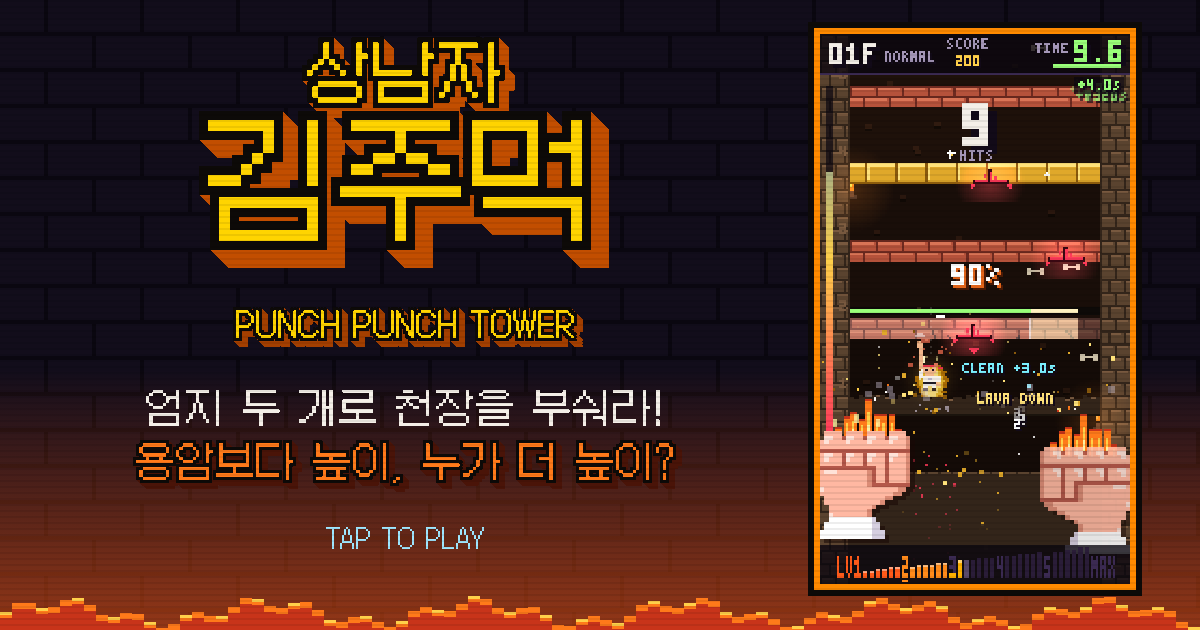
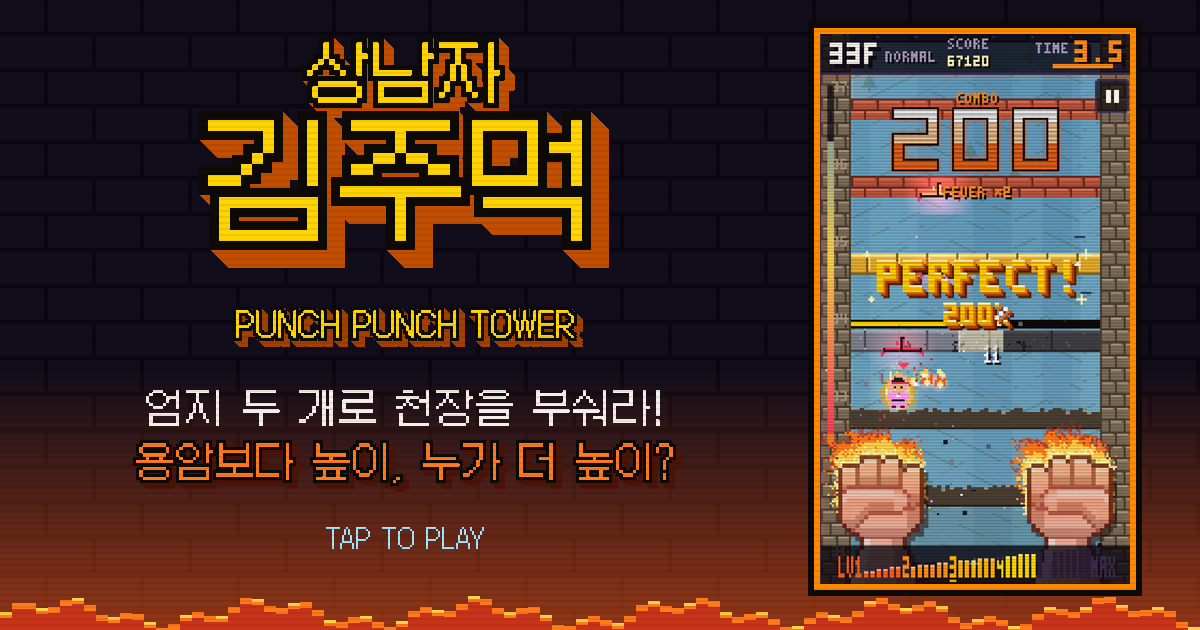
도전장 링크, 도트 PUSH·VENTO 버튼, SHOW TIME 위치, 카톡 썸네일, 방향키·회전 버그 수정 (Cache v21)
- 공유 링크에 기록(층·난이도·이름)을 실어 친구가 '이 기록을 넘어라'로 도전 (시작 배너, VS 점선, 결과 표시)
- 첫 화면 PUSH! PUSH!와 버튼 위 VENTO를 도트 글씨로 (VENTO는 버튼 윗면에 누운 두꺼운 블록 글자)
- SHOW TIME 글씨를 'N층 돌파!' 바로 위에 같은 글씨로
- COMBO·FEVER x2 글씨 2배, 콤보 숫자와 간격
- og.png 오른쪽 화면을 지금 인게임으로, og:image 주소에 ?v=21
- 게임 중 ← →가 난이도를 바꾸던 버그 수정
- 세로 회전 안내 제거 (키보드가 올라오면 잘못 뜨던 문제)

Claude-Session: https://claude.ai/code/session_01986obTgeCbwcVYKsbXKzs8

Changed region(s): [[0.6783, 0.0603, 0.9558, 0.9349]]

diff --git a/index.html b/index.html
@@ -5,13 +5,13 @@
 <meta property="og:title" content="상남자 김주먹: 펀치펀치 타워">
 <meta property="og:description" content="엄지 두 개로 천장을 부숴라! 용암보다 높이, 누가 더 높이? 설치 없이 바로 하는 도트 연타 게임">
 <meta property="og:url" content="https://vento-punch-tower.vercel.app/">
-<meta property="og:image" content="https://vento-punch-tower.vercel.app/og.png">
+<meta property="og:image" content="https://vento-punch-tower.vercel.app/og.png?v=21">
 <meta property="og:image:width" content="1200">
 <meta property="og:image:height" content="630">
 <meta property="og:image:alt" content="상남자 김주먹: 펀치펀치 타워 로고와 게임 화면">
 <meta property="og:locale" content="ko_KR">
 <meta name="twitter:card" content="summary_large_image">
-<meta name="twitter:image" content="https://vento-punch-tower.vercel.app/og.png">
+<meta name="twitter:image" content="https://vento-punch-tower.vercel.app/og.png?v=21">
 <meta name="claude:viewport-fit-sides" content="cover">
 <link rel="preconnect" href="https://fonts.googleapis.com">
 <link rel="stylesheet" href="https://fonts.googleapis.com/css2?family=Press+Start+2P&display=swap">
@@ -143,6 +143,13 @@ body{background:var(--void);color:var(--gi);margin:0;overflow:hidden;
 .darr:disabled{color:var(--edge);cursor:default;box-shadow:0 -3px 0 0 #2a2034,0 3px 0 0 #2a2034,-3px 0 0 0 #2a2034,3px 0 0 0 #2a2034}
 .darr:active:not(:disabled){transform:translateY(2px)}
 .menu .stat.best{text-align:center;margin-top:-8px;font-size:10px}
+.vsban{width:calc(100% - 20px);max-width:320px;margin:10px 0 2px;padding:8px 10px;background:var(--ink);text-align:center;
+  box-shadow:0 -3px 0 0 var(--gold),0 3px 0 0 var(--gold),-3px 0 0 0 var(--gold),3px 0 0 0 var(--gold),6px 6px 0 0 var(--amber)}
+.vsban i{display:block;font-style:normal;font-family:var(--f-pixel);font-size:10px;letter-spacing:.1em;color:var(--lava-hi);margin-bottom:5px}
+.vsban p{margin:0;font-size:13px;line-height:1.5;color:var(--gi);word-break:keep-all}
+.vsban b{color:var(--gold);font-weight:400}.vsban b.fl{font-family:var(--f-pixel);font-size:12px}
+.ezscore .flr i .vsres{display:block;margin-top:7px;font-family:var(--f-body);font-size:12px;letter-spacing:0;color:var(--gi);white-space:nowrap}
+.vsres u{text-decoration:none;color:var(--lava-hi)}.ezscore .flr i .vsres.ok{color:var(--gold);animation:blinky 1s steps(2) infinite}
 .icons{display:grid;grid-template-columns:repeat(3,1fr);gap:12px}
 .ico{display:grid;justify-items:center;gap:6px;padding:10px 0 8px;border:0;border-radius:0;cursor:pointer;background:var(--ink);color:var(--gi);font-family:var(--f-display);font-size:13px;
   box-shadow:0 -3px 0 0 var(--gi),0 3px 0 0 var(--gi),-3px 0 0 0 var(--gi),3px 0 0 0 var(--gi),inset 0 -3px 0 0 #2a2034}
@@ -327,7 +334,7 @@ body{background:var(--void);color:var(--gi);margin:0;overflow:hidden;
 .press{font-family:var(--f-pixel);font-size:10px;letter-spacing:.14em;color:var(--gi)}
 .arcade{margin:auto;display:grid;justify-items:center;gap:30px}
 .pushcue{display:grid;justify-items:center;gap:8px}
-.pushtxt{font-family:var(--f-pixel);font-size:13px;letter-spacing:.08em;color:var(--gold);text-shadow:2px 2px 0 #a33f00;animation:pushBlink .5s steps(2) infinite}
+.pushtxt{display:block;width:min(84cqw,300px);height:auto;image-rendering:pixelated;image-rendering:crisp-edges} /* pixel-art PUSH! PUSH!, blinks by swapping palettes */
 @keyframes pushBlink{50%{color:var(--amber);text-shadow:2px 2px 0 #6e0a0a}}
 /* chunky pixel down-arrow that keeps jabbing at the button */
 .pusharrow{position:relative;width:35px;height:35px;margin:4px 0 2px;animation:pushJab .5s steps(2) infinite}
@@ -357,7 +364,7 @@ body{background:var(--void);color:var(--gi);margin:0;overflow:hidden;
 .studio .w2{animation-delay:.16s}.splash .w3{animation-delay:.5s}
 .studio.lit{color:#fff;text-shadow:3px 3px 0 #c8341a,6px 6px 0 #4a1408,0 0 14px rgba(255,208,74,.9)}
 @keyframes popin{from{opacity:0;transform:scale(1.7)}to{opacity:1;transform:none}}
-@media (prefers-reduced-motion:reduce){.board li.me,.blinky,.studio span,.splash .w3,.namebox.bad{animation:none}}
+@media (prefers-reduced-motion:reduce){.board li.me,.blinky,.vsres.ok,.studio span,.splash .w3,.namebox.bad{animation:none}}
 .mash{position:absolute;left:0;right:0;bottom:41%;text-align:center;pointer-events:none;z-index:2;
   font-family:var(--f-display);font-size:clamp(34px,13cqw,52px);color:var(--gold);
   text-shadow:3px 0 0 var(--ink),-3px 0 0 var(--ink),0 3px 0 var(--ink),0 -3px 0 var(--ink),3px 3px 0 var(--ink),-3px -3px 0 var(--ink),6px 6px 0 #c24e00;
@@ -372,9 +379,19 @@ body{background:var(--void);color:var(--gi);margin:0;overflow:hidden;
 .finale i{font-style:normal;font-family:var(--f-display);font-size:18px;color:#fff;background:var(--weak);padding:4px 10px 3px;box-shadow:3px 3px 0 var(--ink)}
 .finale i:empty{display:none}
 .finale.big b{font-size:clamp(40px,15cqw,60px)}
+/* SHOW TIME: the 'N층 돌파!' lettering, a size down, twinkling right on top of the floor count while SHOW TIME runs */
+.finale .fst{display:none;position:relative;font-style:normal;font-family:var(--f-display);font-size:clamp(24px,8.5cqw,34px);line-height:1;letter-spacing:.04em;color:var(--gold);
+  text-shadow:2px 0 0 var(--ink),-2px 0 0 var(--ink),0 2px 0 var(--ink),0 -2px 0 var(--ink),2px 2px 0 var(--ink),-2px -2px 0 var(--ink),4px 4px 0 #c24e00;
+  animation:finHue .3s steps(3) infinite,fstTw .6s steps(2) infinite}
+.finale.low .fst{display:block}
+.finale .fst::before,.finale .fst::after{content:"";position:absolute;width:3px;height:3px;background:#fff;
+  box-shadow:0 -6px #fff,0 -3px #fff6b0,0 3px #fff6b0,0 6px #fff,-6px 0 #fff,-3px 0 #fff6b0,3px 0 #fff6b0,6px 0 #fff;animation:fstStar .6s steps(2) infinite}
+.finale .fst::before{left:-14px;top:-4px}.finale .fst::after{right:-12px;bottom:-2px;animation-delay:-.3s}
+@keyframes fstTw{50%{filter:brightness(1.6)}}
+@keyframes fstStar{50%{opacity:0;transform:scale(.4)}}
 @keyframes finIn{0%{transform:scale(2.2);opacity:0}8%{transform:scale(.9);opacity:1}14%{transform:scale(1.05)}20%{transform:scale(1)}85%{opacity:1}100%{opacity:0;transform:translateY(-14px)}}
 @keyframes finHue{0%{color:var(--gold)}33%{color:#fff}66%{color:#ff8a00}}
-@media (prefers-reduced-motion:reduce){.finale,.finale b{animation:none}}
+@media (prefers-reduced-motion:reduce){.finale,.finale b,.finale .fst,.finale .fst::before,.finale .fst::after{animation:none}}
 /* SHOW TIME: the finale line "N층 돌파!" stays up the whole time (live) and its number climbs with every floor smashed */
 .finale.low{top:40%}
 .finale.live{animation:none}
@@ -423,14 +440,7 @@ body{background:var(--void);color:var(--gi);margin:0;overflow:hidden;
 .pmenu{width:calc(100% - 16px);max-width:260px;display:grid;grid-template-columns:minmax(0,1fr);gap:14px}
 .cutin{position:absolute;inset:0;display:flex;align-items:center;pointer-events:none;z-index:2;overflow:hidden}
 .cutin[hidden]{display:none}
-/* phone turned sideways: the game is portrait-only, so cover it and ask to turn back (game pauses underneath) */
-.rotate{position:fixed;inset:0;z-index:50;display:none;flex-direction:column;align-items:center;justify-content:center;gap:14px;background:var(--void);text-align:center;padding:16px}
-.rotate b{font-family:var(--f-display);font-weight:400;font-size:22px;color:var(--gold)}
-.rotate span{font-family:var(--f-display);font-size:13px;color:var(--muted)}
-.rotate i{width:34px;height:56px;box-shadow:0 0 0 4px var(--gold);position:relative;animation:turnback 1.6s steps(4) infinite}
-.rotate i::after{content:"";position:absolute;left:12px;bottom:5px;width:10px;height:4px;background:var(--gold)}
-@keyframes turnback{0%,30%{transform:rotate(-90deg)}70%,100%{transform:rotate(0)}}
-@media (orientation:landscape) and (max-height:540px) and (pointer:coarse){.rotate{display:flex}}
+/* portrait only: the phone is asked to stay upright (manifest + screen.orientation.lock); no sideways warning, no pause */
 .cutin .band{width:100%;padding:12px 0 8px;text-align:center;
   background:linear-gradient(90deg,#c8341a,#ff7a1a 35%,#ffd04a 55%,#ff7a1a 75%,#c8341a);
   box-shadow:0 6px 0 #4a1408,0 -6px 0 #4a1408;transform:skewY(-8deg);animation:cut .5s steps(7) forwards}
@@ -448,7 +458,7 @@ body{background:var(--void);color:var(--gi);margin:0;overflow:hidden;
     <canvas id="c" width="144" height="256" aria-label="상남자 김주먹 게임 화면"></canvas>
     <button id="pausebtn" class="pausebtn" type="button" aria-label="일시정지" hidden></button>
     <div id="mash" class="mash" hidden>갈겨!!<small></small></div>
-    <div id="finale" class="finale" hidden><b></b><i></i></div>
+    <div id="finale" class="finale" hidden><em class="fst" aria-hidden="true">SHOW TIME</em><b></b><i></i></div>
     <div id="newsk" class="newsk" hidden><em>NEW!</em><b></b><i></i><canvas class="demo" width="120" height="64" hidden aria-hidden="true"></canvas><small>화면을 탭하면 계속</small></div>
     <div id="coach" class="newsk coach" hidden><em>HOW TO</em><b>L R 번갈아 탁탁!</b><i>두 주먹을 누르면 펀치!<br>윗층을 깨고 올라가요</i></div>
     <div id="hintbar" class="hintbar" hidden></div>
@@ -456,7 +466,7 @@ body{background:var(--void);color:var(--gi);margin:0;overflow:hidden;
     <div id="ov" class="ov"></div>
   </div>
 </div>
-<div id="rotate" class="rotate" aria-live="polite"><i aria-hidden="true"></i><b>폰을 세로로 돌려 주세요</b><span>세로 화면 전용 게임이에요</span></div>
+
 
 <script>
 (()=>{
@@ -859,6 +869,7 @@ const HOLD_T=.16,CHARGE_T=.9,MOVE_SPD=42;
 let ghosts=[],dashCD=0,dashT=0;
 let dashFar=false; /* the try-out has just moved on to the dash: put the next weak point on the far side */
 let shareSnap=null,shareBlob=null,shareText=''; // result share: last game frame, the ready-made card image and its message
+let vs=null,vsBeat=false,vsWon=false; /* challenge link (?f=floor&d=diff&by=name): the friend's record to beat, passed this run, passed at all this visit */
 // controls: tap the left/right half to punch with that fist, hold to walk (one scheme only; the old stick+buttons mode is gone)
 // TILT: lean the phone left/right and the boxer walks that way (on top of the thumb controls).
 // iOS asks permission once (must come from a tap); the neutral angle is taken when each game starts.
@@ -1056,7 +1067,7 @@ function newGame(){
   pl={level:0,reach:0,feet:0,from:0,to:0,jt:-1,jd:.15,punchT:0,side:0,sink:0,x:W/2,tx:W/2,weakT:0};
   started=false;lavaY=70;combo=0;maxCombo=0;lastTap=-9;lastSide=-1;fever=0;camY=-190;shake=0;hitstop=0;hsLag=0;
   parts=[];pops=[];rings=[];tStart=0;tNow=0;warnT=0;endT=0;tapFX=[0,0];impact=0;zoom=0;weakCount=0;weakStreak=0;
-  altStreak=0;superReady=false;kingLevel=0;maxHits=0;orbs=[];sup=null;hint=null;sameSide=0;offHits=0;superCount=0;flashO=0;holds.clear();bothT=0;comboFX={dx:12,at:-9};hum(-1);ghosts=[];dashCD=0;dashT=0;kingSlowT=0;timeScale=1;timeLeft=TIME_START;hudSc=0;hudScT=0;judge=null;jCount=[0,0,0,0];kingT=0;showIntro=0;confs=[];crowdK=0;tGains=[];gainSum=0;gainT=0;chill=0;timeUp=false;lavaHold=0;burns=0;burnT=0;cloth=[];timeFlash=0;timeBeep=0;lastZone=null;
+  altStreak=0;superReady=false;kingLevel=0;maxHits=0;orbs=[];sup=null;hint=null;sameSide=0;offHits=0;superCount=0;flashO=0;holds.clear();bothT=0;comboFX={dx:12,at:-9};hum(-1);ghosts=[];dashCD=0;dashT=0;kingSlowT=0;timeScale=1;timeLeft=TIME_START;hudSc=0;vsBeat=false;hudScT=0;judge=null;jCount=[0,0,0,0];kingT=0;showIntro=0;confs=[];crowdK=0;tGains=[];gainSum=0;gainT=0;chill=0;timeUp=false;lavaHold=0;burns=0;burnT=0;cloth=[];timeFlash=0;timeBeep=0;lastZone=null;
 }
 newGame();
 
@@ -1498,6 +1509,7 @@ function update(dt){
   if(mode==='pause')return; // frozen; render keeps drawing the paused frame
   if(newCard){newCard.t+=dt;if(started)tStart+=dt;return;} /* stays until a tap (accepted after NEW_SKIP) */ /* NEW! card: the world holds still */
   const real=dt;
+  if(vsOn()&&!vsBeat&&pl.level>vs.floor&&(mode==='play'||mode==='super')){vsBeat=vsWon=true;pop(W/2,pl.feet-56,'RECORD BEAT!','#ffd400',1,true);sfx.coin();vibe([40,30,90]);} /* passed the friend's floor */
   // charge: world barely slows; once it's full, time slams to a crawl for the 'kingSlow' beat, then the punch fires
   const tsTarget=kingSlowT>0?.07:(bothT>0&&mode==='play')?.85:1;
   timeScale+=(tsTarget-timeScale)*Math.min(1,real*(kingSlowT>0?18:10));
@@ -2047,8 +2059,8 @@ function drawComboFX(){
   const pal=fever>0?['#ffffff','#ffd0a0','#ff6a1a']:combo>=24?['#fff6b0','#ffd400','#ff8a00']:['#ffffff','#e6f7ff','#7ad8ff'];
   const glow=fever>0?'#ff5a1a':combo>=24?'#ffb000':'#5ac8ff';
   ctx.globalAlpha=(age>D.win?Math.max(0,1-(age-D.win)/.2):1)*.92;
-  text('COMBO',W/2,27,1,fever>0?'#ff8a1a':'#ffd400','c','#0d0a08');
-  bigDigits(String(combo),W/2,fresh?33:35,sc,pal,glow);
+  if(fever<=0)text('COMBO',W/2,22,2,'#ffd400','c','#0d0a08'); /* 2x: readable over the bricks, still clear of the number under it. In FEVER this spot says FEVER x2 (drawHUD) */
+  bigDigits(String(combo),W/2,fresh?37:39,sc,pal,glow); /* a few pixels below the COMBO / FEVER x2 label so they never touch */
   ctx.globalAlpha=1;
 }
 function drawLava(){
@@ -2087,6 +2099,7 @@ function drawHUD(){
   R(0,0,W,18,'rgba(10,6,16,.78)');R(0,18,W,1,'#3b2a52'); // slim bar: the brick's own HP bar is enough, so the top one is gone
   const hdt=Math.min(.1,Math.max(0,t-hudT));hudT=t;
   const fl=String(pl.level).padStart(2,'0')+'F';text(fl,4,4,2,'#f4efe8');
+  if(vsOn())text(vsBeat?'VS BEAT!':'VS '+vs.floor+'F',9,22,1,vsBeat?'#ffd400':'#c9c2d6'); /* challenge target under the floor count */
   text(D.tag,4+tw(fl,2)+4,8,1,diffIdx===3?'#ff3a5a':'#a597b8',false);
   { /* SCORE, top centre: each floor is worth SC_FLOOR x difficulty and every punch banks its share (the damage it did), so the
        number ticks up with each hit and lands exactly on the ranking score when the floor breaks. Off play it shows the ranking score */
@@ -2131,11 +2144,11 @@ function drawHUD(){
   if(kingT>0&&mode==='play'){const fr=kingT/kingTmax,bw=W-40;
     const ky=H-46-GAUGE_ROW-14; // just above the fist buttons, clear of the grades up top
     R(16,ky-2,W-32,14,'rgba(13,10,8,.7)');text(kingT.toFixed(1)+'s   +'+(pl.level-showFrom)+'F',W/2,ky,1,'#ffd400','c','#0d0a08'); // time left + floors smashed
-    {const y=24,cyc=(gt%1.4); // small headline just under the top bar, no backing: a shine sweeps it and the stars twinkle
+    if(!finaleEl.classList.contains('low')){const y=24,cyc=(gt%1.4); /* small headline under the top bar, until the 'N층 돌파!' line is up (then SHOW TIME sits on top of it) */
      perfectText('SHOW TIME',W/2,y,cyc<.5?cyc:1,2,cyc>=.45);}
     R(20,ky+7,bw,3,'#2a1d38');R(20,ky+7,Math.round(bw*fr),3,'#ff8a1a');R(20,ky+7,Math.round(bw*fr),1,'#ffd400');
     ctx.globalAlpha=.35+.2*Math.sin(gt*16);ctx.strokeStyle='#ff8a1a';ctx.lineWidth=3;ctx.strokeRect(1.5,20.5,W-3,H-22);ctx.globalAlpha=1;}
-  if(fever>0&&kingT<=0){text('FEVER x2',W/2,71,1,'#ff8a1a','c','#0d0a08');
+  if(fever>0&&kingT<=0){text('FEVER x2',W/2,22,2,((gt*6)|0)%2?'#ffd04a':'#ff8a1a','c','#0d0a08'); /* 2x and flickering, in the COMBO label's spot above the count: the floating PERFECT! never reaches up here */
     ctx.globalAlpha=.25+.15*Math.sin(gt*20);ctx.strokeStyle='#ff6a1a';ctx.lineWidth=2;ctx.strokeRect(1,20,W-2,H-21);ctx.globalAlpha=1;}
   const dist=lavaY-pl.feet;
   if(mode==='play'&&started){
@@ -2547,6 +2560,7 @@ function render(){
   for(let n=nLo;n<=nHi+1;n++){const y=-(n-1)*FH-camY;if(y>-30&&y<H+40&&n%3===1&&n<=SURF)drawTorch(n);}
   const gy=-camY;if(gy<H){const z0=ZONES[0];R(WALL,gy,IN,H,z0.wallD);for(let x=0;x<IN;x+=6)R(WALL+x,gy,5,1,z0.wall);}
   for(let n=nLo;n<=nHi;n++){const y=-n*FH-camY;if(y>-16&&y<H+2)drawSlab(slabs[n]);}
+  if(vsOn()){const y=-vs.floor*FH-camY,c=vsBeat?'#6e6480':'#ffd400';if(y>-12&&y<H+2){for(let x=WALL;x<W-WALL;x+=6)R(x,y,3,1,c);text('VS',W-WALL-2,y-7,1,c,'r');}} /* the friend's floor: a dashed line across the tower */
   drawImpactFrame();
   if(mode==='super'&&sup){
     if(sup.t<.45){R(-8,-8,W+16,H+16,'rgba(8,4,12,.6)');
@@ -2689,9 +2703,7 @@ async function fillBoard(sel,_unused,hiId,preset,mine){
 /* ---------- screens ---------- */
 const CREDIT=`<footer class="credit">© 2026 VENTO AI STUDIO</footer>`;
 function lockPortrait(){try{const o=screen.orientation;if(o&&o.lock)o.lock('portrait').catch(()=>{});}catch(e){}}
-const sideways=matchMedia('(orientation:landscape) and (max-height:540px) and (pointer:coarse)');
-const onSideways=()=>{if(sideways.matches&&ov.hidden&&(mode==='play'||mode==='super'||mode==='count'))pauseGame();};
-try{sideways.addEventListener('change',onSideways);}catch(e){sideways.addListener&&sideways.addListener(onSideways);}
+/* no rotate warning: the game just stays in portrait (lockPortrait asks the phone to hold it there where it can) */
 function startGame(){lockPortrait();ov.hidden=true;beginCountdown();} /* no nickname gate: it is asked on the result page */
 // ---- pause / restart / back to menu ----
 const pauseBtn=document.getElementById('pausebtn');
@@ -2748,8 +2760,12 @@ function startGuest(){isGuest=true;playerName='GUEST'+String(100+Math.floor(Math
   ov.hidden=true;beginCountdown();}
 // arcade boot: browsers only allow sound after a touch, so the logo waits for one, then plays with its jingle
 // pixel-art arcade button (3/4 view): red cap on a dark bezel. h = how far the cap stands up (6 = up, 0 = pushed in)
+const BTN_S=8; /* the button art is 52x29 pixels drawn 8x bigger, so the lying VENTO on its cap can be finer than one art pixel */
+let btnArt=null,ventoFlat=null;
 function drawStartButton(c,h){
-  const g=c.getContext('2d');g.clearRect(0,0,c.width,c.height);
+  if(c.width!==52*BTN_S){c.width=52*BTN_S;c.height=29*BTN_S;}
+  if(!btnArt){btnArt=document.createElement('canvas');btnArt.width=52;btnArt.height=29;}
+  const g=btnArt.getContext('2d');g.clearRect(0,0,52,29);
   const ell=(cx,cy,rx,ry,col)=>{g.fillStyle=col;for(let y=-ry;y<=ry;y++){const w=Math.round(rx*Math.sqrt(1-(y*y)/(ry*ry)));if(w>0)g.fillRect(cx-w,cy+y,w*2+1,1);}};
   const cx=26,by=16;
   ell(cx,by+4,23,7,'#4a403a');          // floor shadow / outer bezel
@@ -2762,9 +2778,36 @@ function drawStartButton(c,h){
   ell(cx,by-h,15,5,'#ff2a2a');          // top face
   ell(cx-3,by-h-1,9,3,'#ff4d40');
   g.fillStyle='#ffb2a6';g.fillRect(cx-8,by-h-4,4,1);g.fillRect(cx-10,by-h-3,2,1); // glint
-  const VF={V:['101','101','101','101','010'],E:['111','100','110','100','111'],N:['101','111','111','101','101'],T:['111','010','010','010','010'],O:['111','101','101','101','111']};
-  const tx=cx-9,ty=by-h-1;[...'VENTO'].forEach((ch,i)=>VF[ch].forEach((row,r)=>{for(let q=0;q<3;q++)if(row[q]==='1'){g.fillStyle='#7a0a0a';g.fillRect(tx+i*4+q,ty+r+1,1,1);g.fillStyle='#ffd400';g.fillRect(tx+i*4+q,ty+r,1,1);}})); /* VENTO in yellow on the cap */
+  const out=c.getContext('2d');out.imageSmoothingEnabled=false;out.clearRect(0,0,c.width,c.height);out.drawImage(btnArt,0,0,c.width,c.height);
+  /* VENTO lying flat on the cap, facing the sky: the AI STUDIO lettering (cream face, red then deep-red drop), squashed to the cap's
+     tilt, and a little narrower at the far edge. Seen from the front, the word lies on its back */
+  const v=ventoWord();if(!v)return;
+  const S=BTN_S,dh=v.height,y0=Math.round((by-h)*S+S/2-dh/2),cxp=cx*S+S/2;
+  for(let r=0;r<dh;r+=3){const k=.88+.12*(r/dh),w=Math.round(v.width*k);out.drawImage(v,0,r,v.width,3,Math.round(cxp-w/2),y0+r,w,3);} /* one dot row at a time, the far rows a little narrower */
 }
+/* splash lettering as real pixel art: a bold arcade bitmap face (2-pixel strokes, 6 rows), a dark outline,
+   a lit top row and a two-step drop down-right, like the game logo. One canvas pixel = one dot, scaled up crisp */
+const ARC={P:['11110','11011','11011','11110','11000','11000'],U:['11011','11011','11011','11011','11011','01110'],S:['01111','11000','01110','00011','00011','11110'],
+  H:['11011','11011','11111','11011','11011','11011'],'!':['11','11','11','11','00','11'],V:['11011','11011','11011','11011','01110','00100'],
+  E:['11111','11000','11110','11000','11000','11111'],N:['11001','11101','11111','11011','11001','11001'],T:['111111','111111','001100','001100','001100','001100'],
+  O:['01110','11011','11011','11011','11011','01110'],' ':['000','000','000','000','000','000']};
+/* drop: the extrusion layers as [dx,dy,colour], far ones first (default: two steps down-right, like the logo) */
+function pixWord(txt,pal,drop){
+  drop=drop||[[2,2,pal.e2],[1,1,pal.e1]];
+  const cells=[];let x=0;for(const ch of txt){const g=ARC[ch]||ARC[' '];g.forEach((row,r)=>{for(let q=0;q<row.length;q++)if(row[q]==='1')cells.push([x+q,r]);});x+=g[0].length+1;}
+  const mx=Math.max(0,...drop.map(d=>d[0])),my=Math.max(0,...drop.map(d=>d[1]));
+  const w=x-1,c=document.createElement('canvas');c.width=w+mx+2;c.height=6+my+2;const g=c.getContext('2d'),P=(a,b,col)=>{g.fillStyle=col;g.fillRect(a,b,1,1);};
+  const solid=cells.slice();for(const [dx,dy] of drop)for(const [a,b] of cells)solid.push([a+dx,b+dy]);
+  for(const [a,b] of solid)for(let dx=-1;dx<=1;dx++)for(let dy=-1;dy<=1;dy++)P(a+1+dx,b+1+dy,pal.ink); /* outline around the face and its whole drop */
+  for(const [dx,dy,col] of drop)for(const [a,b] of cells)P(a+1+dx,b+1+dy,col);
+  for(const [a,b] of cells)P(a+1,b+1,b===0?pal.hi:b<3?pal.face:pal.lo);
+  return c;}
+/* VENTO for the button cap: the AI STUDIO colours (cream, red drop, deep-red drop) in big dots, squashed to lie on the cap */
+function ventoWord(){if(ventoFlat)return ventoFlat;
+  const src=pixWord('VENTO',{ink:'#2a0606',e2:'#4a1408',e1:'#c8341a',hi:'#ffffff',face:'#f4efe8',lo:'#d8cfc8'},[[1,4,'#4a1408'],[1,3,'#7a1c0c'],[0,2,'#c8341a'],[0,1,'#e0502a']]); /* thick block letters: their front walls show below them */
+  const SX=5,SY=3,q=document.createElement('canvas'),qg=q.getContext('2d');q.width=src.width*SX;q.height=src.height*SY;
+  qg.imageSmoothingEnabled=false;qg.drawImage(src,0,0,q.width,q.height);
+  return ventoFlat=q;}
 function animStartButton(c){
   const seq=[6,6,5,4,2,1,1,2,4,5];let i=0,run=true,forced=null;
   const tick=()=>{if(!run)return;drawStartButton(c,forced!==null?forced:seq[i++%seq.length]);setTimeout(tick,100);};
@@ -2881,7 +2924,7 @@ function logoFlash(next){
 function showSplash(){
   ov.classList.add('black');ov.hidden=false;
   ov.innerHTML=`<div class="arcade">
-      <div class="pushcue" aria-hidden="true"><div class="pushtxt">PUSH! PUSH!</div><div class="pusharrow"></div></div>
+      <div class="pushcue" aria-hidden="true"><canvas class="pushtxt" id="pushcv" aria-hidden="true"></canvas><div class="pusharrow"></div></div>
       <button class="abtn" id="startbtn" type="button" aria-label="START"><canvas id="btncv" width="52" height="29"></canvas></button>
     </div>
     <button class="sndbtn${soundOn?'':' off'}" id="sndbtn" type="button" aria-pressed="${soundOn}"><i aria-hidden="true"></i><span>${soundLabel()}</span></button>`;
@@ -2899,6 +2942,11 @@ function showSplash(){
     setTimeout(finish,2450);}; // long enough for the whole '클라~스' (ends ~2.1s)
   const onKey=e=>{if(e.key==='Enter'||e.key===' '){e.preventDefault();play();}};
   const stopBtn=animStartButton(document.getElementById('btncv'));
+  { /* PUSH! PUSH! blinks gold / amber twice a second until the splash is gone */
+    const pc=document.getElementById('pushcv'),A=pixWord('PUSH! PUSH!',{ink:'#0d0a08',e2:'#6e2a00',e1:'#c24e00',hi:'#fff3a0',face:'#ffd400',lo:'#ffb000'}),
+      B=pixWord('PUSH! PUSH!',{ink:'#0d0a08',e2:'#4a0606',e1:'#6e0a0a',hi:'#ffd04a',face:'#ff8a00',lo:'#e05a00'});
+    pc.width=A.width;pc.height=A.height;const pg=pc.getContext('2d');let f=0;
+    const blink=()=>{if(!pc.isConnected)return;pg.clearRect(0,0,pc.width,pc.height);pg.drawImage(f++%2&&!RM?B:A,0,0);setTimeout(blink,250);};blink();}
   let pushed=false;
   document.getElementById('startbtn').addEventListener('click',e=>{e.stopPropagation();if(pushed)return;pushed=true;
     initAudio();smashStart(e.currentTarget,stopBtn,play);});
@@ -2923,6 +2971,7 @@ const pxIcon=k=>`<svg viewBox="0 0 12 12" aria-hidden="true">${PX_ICON[k].map((r
 function showTitle(){menuMusic();showOverlay(`
   <h1 class="logo ko" aria-label="상남자 김주먹: 펀치펀치 타워"><span class="lw sm"><span class="lo" aria-hidden="true">상남자</span><span class="lf">상남자</span></span><span class="lw"><span class="lo" aria-hidden="true">김주먹</span><span class="lf">김주먹</span></span></h1>
   <div class="logosub" aria-hidden="true">PUNCH PUNCH TOWER</div>
+  ${vs?'<div class="vsban" id="vsban"></div>':''}
   <div class="menu">
     <button class="btn primary" id="go" data-act="go"><i aria-hidden="true">▶</i>시작</button>
     <div class="dsel" role="group" aria-label="난이도"><button class="darr" type="button" data-act="dprev" aria-label="쉬운 난이도">◀</button><b id="dname" aria-live="polite"></b><button class="darr" type="button" data-act="dnext" aria-label="어려운 난이도">▶</button></div>
@@ -2932,11 +2981,13 @@ function showTitle(){menuMusic();showOverlay(`
   ${CREDIT}`,{go:startGame,rank:()=>showRanking(),howto:showHowto,settings:showSettings,dprev:()=>stepDiff(-1),dnext:()=>stepDiff(1)});
   syncDiff();
   const g=ovGen,onKey=e=>{if(ovGen!==g){removeEventListener('keydown',onKey);return;}
+    if(ov.hidden||mode==='play'||mode==='super'||mode==='count')return; /* the title is gone (game running): arrows are punches, not the difficulty */
     if(e.key==='ArrowLeft'||e.key==='ArrowRight'){e.preventDefault();stepDiff(e.key==='ArrowLeft'?-1:1);}};
   addEventListener('keydown',onKey);}
 function syncDiff(){const n=ov.querySelector('#dname');if(!n)return;n.textContent=D.ko;n.className='t-'+D.key;
   ov.querySelector('[data-act="dprev"]').disabled=diffIdx<=0;ov.querySelector('[data-act="dnext"]').disabled=diffIdx>=DIFFS.length-1;
-  const bl=ov.querySelector('#bestline');if(bl)bl.innerHTML=bestLine();}
+  const bl=ov.querySelector('#bestline');if(bl)bl.innerHTML=bestLine();
+  const vb=ov.querySelector('#vsban');if(vb)vb.innerHTML=vsBanHTML();}
 function stepDiff(d){const i=clamp(diffIdx+d,0,DIFFS.length-1);if(i===diffIdx){sfx.same();return;}
   initAudio();diffIdx=i;D=DIFFS[diffIdx];try{localStorage.setItem('punchtower.diff',diffIdx);}catch(e){}sfx.select();syncDiff();}
 // settings: nickname, music / sound / tilt / hints, and 'learn the moves again'
@@ -3000,6 +3051,7 @@ function showRanking(){menuMusic();showOverlay(`
 function resultScreen(cleared){
   setTimeout(()=>{if(!ov.hidden&&mode!=='play')menuMusic();},900); // after the death sting
   const floor=pl.level,time=Math.round((cleared?clearTime:tNow)*10)/10;
+  if(vsOn()&&floor>vs.floor)vsWon=true; /* challenge passed: the title banner says so from now on */
   try{shareSnap=document.createElement('canvas');shareSnap.width=W;shareSnap.height=H;shareSnap.getContext('2d').drawImage(cv,0,0);}catch(e){shareSnap=null;}
   const en={id:Date.now().toString(36)+Math.random().toString(36).slice(2,7),name:playerName||'???',diff:D.key,floor,time};
   const head=cleared
@@ -3067,7 +3119,7 @@ function ezResult(floor,score,time){const acc=accOf(),tot=jCount.reduce((a,b)=>a
         <div class="ezacc">${acc.toFixed(1)}%</div></div>
       <div class="ezlist">${list}</div></div>
     ${cmb}
-    <div class="ezscore" style="--d:${d++}"><div class="flr"><i>FLOOR</i>${n(floor,1,'F')}</div><div><i>RANK</i><b id="ezrank">${floor>=1?'···':'-'}</b></div><div><i>TIME</i><b>${fmt(time)}</b></div><div class="tsc"><i>TOTAL SCORE</i>${n(score,7)}</div></div></div>`;}
+    <div class="ezscore" style="--d:${d++}"><div class="flr"><i>FLOOR${vsResHTML(floor)}</i>${n(floor,1,'F')}</div><div><i>RANK</i><b id="ezrank">${floor>=1?'···':'-'}</b></div><div><i>TIME</i><b>${fmt(time)}</b></div><div class="tsc"><i>TOTAL SCORE</i>${n(score,7)}</div></div></div>`;}
 function ezCount(gen){if(RM)return;ov.querySelectorAll('.ezr [data-to]').forEach((el,i)=>{const to=+el.dataset.to,pad=+el.dataset.pad,suf=el.dataset.suf||'',t0=performance.now()+120+i*90;
     el.textContent=''.padStart(pad,'0')+suf;
     const step=t=>{if(ovGen!==gen)return;const k=Math.min(1,Math.max(0,(t-t0)/520));el.textContent=String(Math.round(to*k)).padStart(pad,'0')+suf;if(k<1)requestAnimationFrame(step);};
@@ -3080,8 +3132,25 @@ function judgeBlock(){const acc=accOf();
    The score page draws a 1080x1350 pixel card (last game frame behind, logo, floor, score, rank, link) ahead of time,
    so a tap opens the phone's share sheet right away (KakaoTalk, Instagram ...). No share sheet: save the image + copy the text. */
 const SHARE_URL='https://vento-punch-tower.vercel.app/';
+/* challenge link: the shared link carries the run (floor, difficulty, name). Opening it puts '이 기록을 넘어라' on the title,
+   switches to that difficulty for this visit (not saved), draws the floor in the tower and says on the result how it went */
+function shareLink(en){const q=new URLSearchParams({f:en.floor,d:en.diff});const n=String(en.name||'');if(n&&n!=='???')q.set('by',n);return SHARE_URL+'?'+q;}
+function readVs(){try{const q=new URLSearchParams(location.search),f=parseInt(q.get('f'),10),d=q.get('d');
+  if(!(f>=1&&f<=9999)||!DIFF_KO[d])return;
+  vs={floor:f,diff:d,name:String(q.get('by')||'').replace(/[\u0000-\u001f<>]/g,'').trim().slice(0,NAME_MAX)||'친구'};
+  const i=DIFFS.findIndex(x=>x.key===d);if(i>=0){diffIdx=i;D=DIFFS[i];}}catch(e){vs=null;}}
+const vsOn=()=>!!vs&&D.key===vs.diff;
+function vsBanHTML(){if(!vs)return '';const nm=`<b>${esc(vs.name)}</b>`,dk=`<span class="t-${vs.diff}">${DIFF_KO[vs.diff]}</span>`,fl=`<b class="fl">${vs.floor}F</b>`;
+  if(vsWon)return `<i>CHALLENGE CLEAR!</i><p>${nm}의 ${fl} 돌파! 이제 내 기록으로 도전장을 보내 봐요</p>`;
+  if(!vsOn())return `<i>CHALLENGE</i><p>${nm}의 기록은 ${dk} ${fl} · 난이도를 ${dk}${vs.diff==='master'?'로':'으로'} 맞추면 도전 시작</p>`;
+  return `<i>도전장 도착!</i><p>${nm}의 ${dk} ${fl}를 넘어라</p>`;}
+function vsResHTML(floor){if(!vsOn())return '';const nm=esc(vs.name),f=vs.floor;
+  if(floor>f)return `<span class="vsres ok">★ ${nm} ${f}F 돌파!</span>`; /* sits under FLOOR in the score box, so the page doesn't grow */
+  if(floor===f)return `<span class="vsres">${nm} ${f}F와 동점!</span>`;
+  return `<span class="vsres">${nm} ${f}F까지 <u>${f-floor}층</u></span>`;}
 function prepShare(cleared,en,acc,rank,online){const myGen=ovGen;
-  shareText=`펀치펀치 타워 ${DIFF_KO[en.diff]} ${en.floor}층 · ${num(scoreOf(en))}점${online&&rank?` · 랭킹 ${rank}위`:''}! 나보다 높이 올라갈 수 있어? 👊\n${SHARE_URL}`;
+  const beat=vs&&en.diff===vs.diff&&en.floor>vs.floor?`${vs.name}의 ${vs.floor}층을 넘었다! `:'';
+  shareText=`${beat}펀치펀치 타워 ${DIFF_KO[en.diff]} ${en.floor}층 · ${num(scoreOf(en))}점${online&&rank?` · 랭킹 ${rank}위`:''}! 이 기록을 넘어 봐 👊\n${shareLink(en)}`;
   Promise.all([document.fonts.load('88px "PunchTowerKR"'),document.fonts.load('40px "Press Start 2P"')]).catch(()=>{}).then(()=>{
     if(myGen!==ovGen)return;const c=drawShareCard(cleared,en,acc,rank,online);
     c.toBlob(b=>{if(myGen===ovGen&&b)shareBlob=b;},'image/png');});
@@ -3124,7 +3193,7 @@ function drawShareCard(cleared,en,acc,rank,online){
   if(online&&rank)say(rank===1?'NEW RECORD! 1ST':'RANK '+ord(rank),CW/2,cy+566,40,PX,rank<=3?'#ffd400':'#9fe7ff','center','#a33f00');
   else say('TIME '+fmt(en.time),CW/2,cy+572,32,PX,'#a597b8','center',null,false);
   // call to action + link
-  say('너도 올라와 봐!',CW/2,1136,55,KR,'#ff7a1a','center','#4a1408');
+  say('이 기록을 넘어라!',CW/2,1136,55,KR,'#ff7a1a','center','#4a1408');
   say(SHARE_URL.replace(/^https:\/\/|\/$/g,''),CW/2,1240,24,PX,'#f4efe8','center',null,false);
   g.fillStyle='rgba(0,0,0,.07)';for(let y=0;y<CH;y+=6)g.fillRect(0,y,CW,2); // the cabinet scanlines
   return c;}
@@ -3151,6 +3220,7 @@ function shareSheet(){const old=ov.querySelector('.sharesheet');if(old)old.remov
   ov.appendChild(d);}
 function showOver(){resultScreen(false);}
 function showClear(){resultScreen(true);}
+readVs();
 showSplash();
 })();
 </script><script>if("serviceWorker" in navigator)addEventListener("load",()=>navigator.serviceWorker.register("/sw.js").catch(()=>{}));</script></body></html>

diff --git a/sw.js b/sw.js
@@ -1,7 +1,7 @@
 // PUNCH TOWER service worker: the game opens and plays offline.
 // Game files: network first (so updates show up), falling back to the cached copy.
 // Fonts: cache first. The ranking server (Supabase) is never cached.
-const CACHE = 'punch-tower-v20';
+const CACHE = 'punch-tower-v21';
 const CORE = ['/', '/index.html', '/manifest.webmanifest', '/icons/icon-192.png', '/icons/icon-512.png', '/icons/apple-touch-icon.png'];
 
 self.addEventListener('install', e => {
